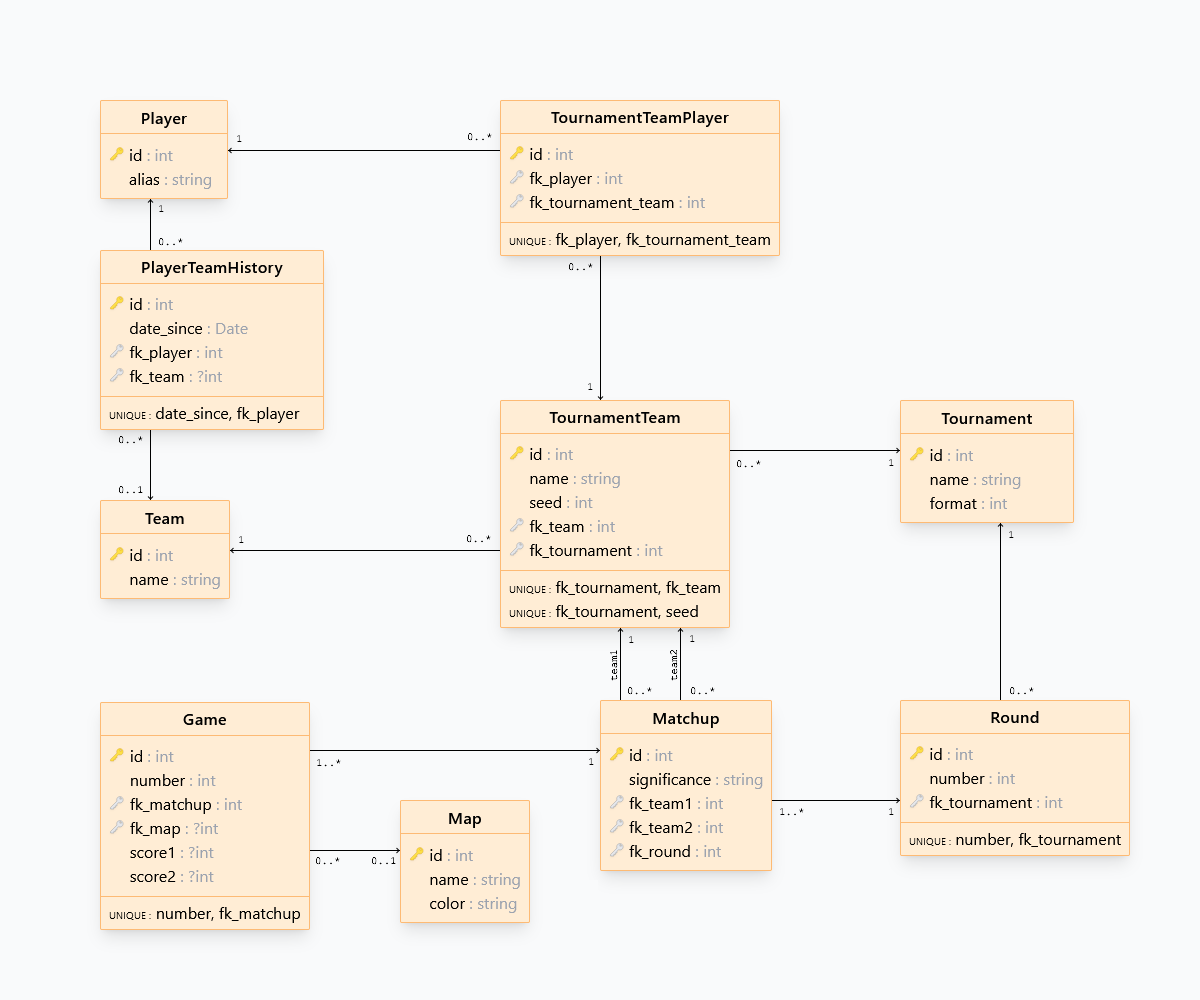
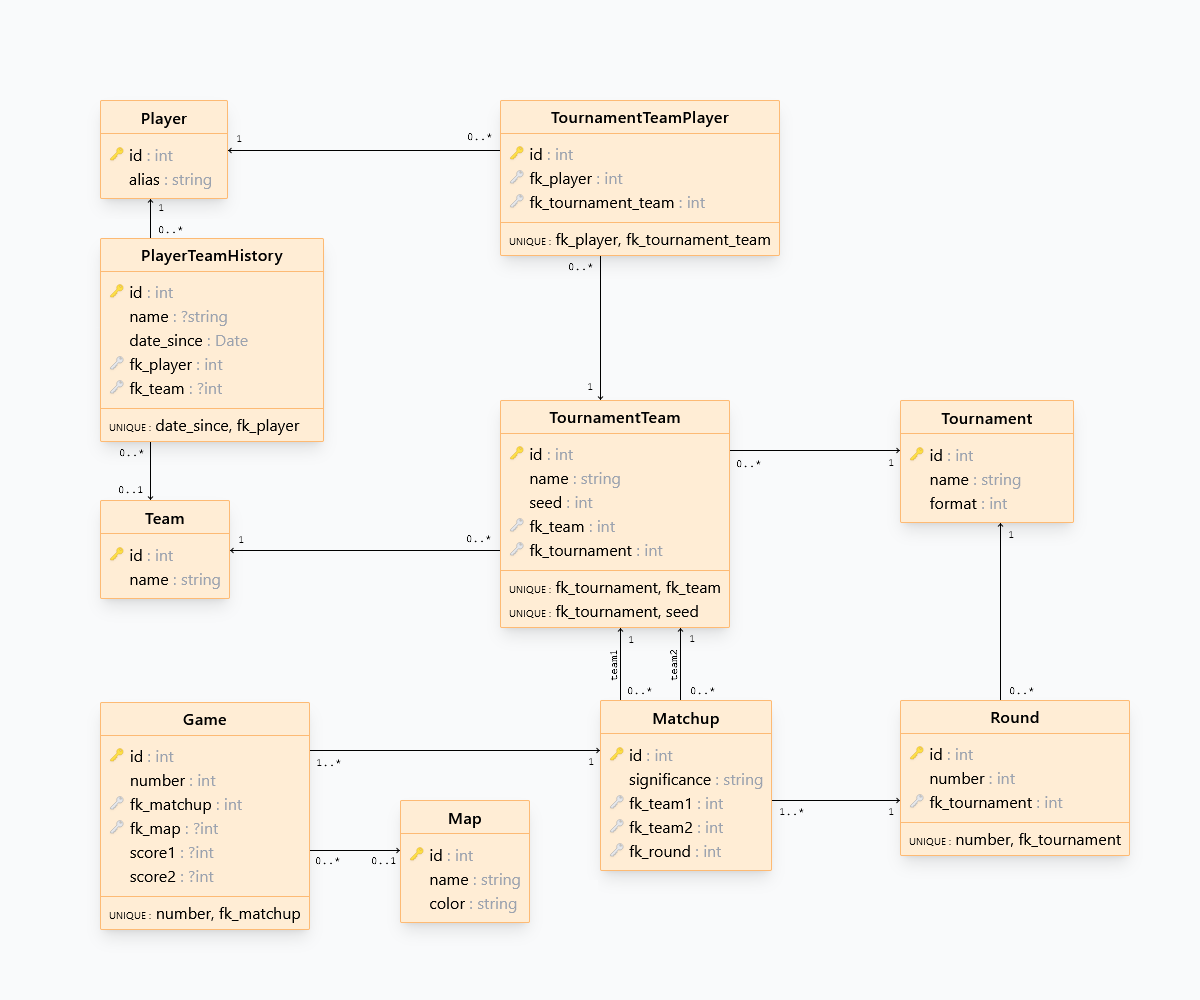
Add current team name to player team histroy

Changed region(s): [[0.0925, 0.217, 0.2775, 0.465]]

diff --git a/resources/js/pages/Player/Player.tsx b/resources/js/pages/Player/Player.tsx
@@ -66,9 +66,19 @@ function PlayerTransfer({ transfer, earlier }: {
 
 	return <ListItemLink to={'/Teams/' + transfer.team.id}>
 		<ListItemText>
-			<Typography component='span'>{transfer.date}:</Typography>{' '}
+			{transfer.date}:{' '}
 			<Typography component='span' color='textSecondary'>{earlier?.team == null ? 'Joined' : 'Transferred to'}</Typography>{' '}
-			<Typography component='span'>{transfer.team.name}</Typography>
+			{transfer.name !== transfer.team.name ?
+				<>
+					{transfer.name}{' '}
+					<Typography component='span' variant='body2' color='textSecondary'>(now known as
+						{' '}
+						<Typography component='span' variant='body2' color='textPrimary'>{transfer.team.name}</Typography>
+					)</Typography>
+				</>
+			:
+				<>{transfer.team.name}</>
+			}
 		</ListItemText>
 	</ListItemLink>
 }

diff --git a/resources/js/pages/Player/PlayerTypes.tsx b/resources/js/pages/Player/PlayerTypes.tsx
@@ -11,6 +11,7 @@ export type IPlayerPayload = Omit<IPlayerBasic, 'id'>
 
 export interface IPlayerTransfer {
 	date: string;
+	name: string|null;
 	team: {
 		id: string;
 		name: string;

diff --git a/app/Services/PlayerTeamHistoryService.php b/app/Services/PlayerTeamHistoryService.php
@@ -41,11 +41,11 @@ class PlayerTeamHistoryService
         return $players;
     }
 
-    public function changePlayerTeam(Player $player, ?int $teamId = null): void
+    public function changePlayerTeam(Player $player, ?Team $team): void
     {
         $latestPlayerHistory = $player->getLatestHistory();
 
-        if ($latestPlayerHistory == null && $teamId == null) return;
+        if ($latestPlayerHistory == null && $team == null) return;
 
         $today = date('Y-m-d');
         if ($latestPlayerHistory != null && $latestPlayerHistory->date_since === $today) {
@@ -53,12 +53,13 @@ class PlayerTeamHistoryService
             $latestPlayerHistory = $player->getLatestHistory();
         }
 
-        if ($latestPlayerHistory != null && $latestPlayerHistory->fk_team === $teamId) return;
+        if ($latestPlayerHistory != null && $latestPlayerHistory->fk_team === $team->id) return;
 
         PlayerTeamHistory::create([
             'fk_player' => $player->id,
             'date_since' => $today,
-            'fk_team' => $teamId,
+            'fk_team' => $team?->id,
+            'name' => $team?->name,
         ]);
     }
 
@@ -78,7 +79,7 @@ class PlayerTeamHistoryService
             $player = Player::findOrFail($playerId);
             // if ($player == null) continue;
             if (!$currentPlayers->contains($player)) {
-                $this->changePlayerTeam($player, $team->id);
+                $this->changePlayerTeam($player, $team);
             }
         }
     }

diff --git a/database/seeders/PlayerTeamHistorySeeder.php b/database/seeders/PlayerTeamHistorySeeder.php
@@ -28,21 +28,22 @@ class PlayerTeamHistorySeeder extends Seeder
             $previousTeamId = null;
 
             for ($i = 0; $i < $numberOfTransfers; $i++) {
-                $shouldTeamBeNotNull = $this->faker->boolean(75);
+                $isNextTeamNotNull = $this->faker->boolean(75);
                 $isPreviousTeamNull = $previousTeamId == null;
-                $teamId = ($isPreviousTeamNull || $shouldTeamBeNotNull) ? $teams->random()->id : null;
+                $team = ($isPreviousTeamNull || $isNextTeamNotNull) ? $teams->random() : null;
 
-                if ($teamId === $previousTeamId) $teamId = null; // rare, but not impossible
+                if ($team->id === $previousTeamId) $team = null; // rare, but not impossible
 
                 $daysAgo = 14 * ($numberOfTransfers - $i - 1) + $this->faker->numberBetween(0, 13);
                 $date = CarbonImmutable::now()->addDays(-$daysAgo)->format('Y-m-d');
 
                 PlayerTeamHistory::create([
                     'fk_player' => $player->id,
-                    'fk_team' => $teamId,
+                    'fk_team' => $team->id,
                     'date_since' => $date,
+                    'name' => $team->name,
                 ]);
-                $previousTeamId = $teamId;
+                $previousTeamId = $team->id;
             }
         }
     }

diff --git a/app/Services/PlayerService.php b/app/Services/PlayerService.php
@@ -6,6 +6,7 @@ use Illuminate\Support\Facades\DB;
 use Illuminate\Support\Facades\Validator;
 use App\Exceptions\InvalidStateException;
 use App\Models\Player;
+use App\Models\Team;
 
 class PlayerService
 {
@@ -29,7 +30,9 @@ class PlayerService
             'alias' => $validData['alias'],
         ]);
 
-        $this->historyService->changePlayerTeam($player, $validData['team'] ?? null);
+        $team = $validData['team'] === null ? null : Team::findOrFail($validData['team']);
+
+        $this->historyService->changePlayerTeam($player, $team);
     }
 
     /** @param array<string, mixed> $inputData */
@@ -46,7 +49,9 @@ class PlayerService
         $player->alias = $validData['alias'];
         $player->save();
 
-        $this->historyService->changePlayerTeam($player, $validData['team'] ?? null);
+        $team = $validData['team'] === null ? null : Team::findOrFail($validData['team']);
+
+        $this->historyService->changePlayerTeam($player, $team);
     }
 
     public function destroy(int $id): void

diff --git a/database/migrations/2023_12_15_182048_add_name_to_team_history_table.php b/database/migrations/2023_12_15_182048_add_name_to_team_history_table.php
@@ -1,0 +1,28 @@
+<?php
+
+use Illuminate\Support\Facades\Schema;
+use Illuminate\Database\Schema\Blueprint;
+use Illuminate\Database\Migrations\Migration;
+
+class AddNameToTeamHistoryTable extends Migration
+{
+    /**
+     * Run the migrations.
+     */
+    public function up(): void
+    {
+        Schema::table('player_team_history', function (Blueprint $table) {
+            $table->string('name')->nullable();
+        });
+    }
+
+    /**
+     * Reverse the migrations.
+     */
+    public function down(): void
+    {
+        Schema::table('player_team_history', function (Blueprint $table) {
+            $table->dropColumn('name');
+        });
+    }
+}

diff --git a/database/migrations/2023_12_15_182416_migrate_team_history_name.php b/database/migrations/2023_12_15_182416_migrate_team_history_name.php
@@ -1,0 +1,22 @@
+<?php
+
+use Illuminate\Database\Migrations\Migration;
+use Illuminate\Support\Facades\DB;
+
+class MigrateTeamHistoryName extends Migration
+{
+    /**
+     * Run the migrations.
+     */
+    public function up(): void
+    {
+        DB::update('update player_team_history inner join team on player_team_history.fk_team = team.id set player_team_history.name = team.name where player_team_history.fk_team is not null');
+    }
+
+    /**
+     * Reverse the migrations.
+     */
+    public function down(): void
+    {
+    }
+}

diff --git a/app/Http/Resources/PlayerResource.php b/app/Http/Resources/PlayerResource.php
@@ -21,6 +21,7 @@ final class PlayerResource
                 ],
                 'history' => $player->history->sortBy('date_since')->reverse()->map(fn (PlayerTeamHistory $entry) => [
                     'date' => $entry->date_since,
+                    'name' => $entry->team == null ? null : $entry->name,
                     'team' => $entry->team == null ? null : [
                         'id' => $entry->team->id,
                         'name' => $entry->team->name,

diff --git a/app/Models/PlayerTeamHistory.php b/app/Models/PlayerTeamHistory.php
@@ -7,6 +7,7 @@ use Illuminate\Database\Eloquent\Relations\BelongsTo;
 
 /**
  * @property int $id
+ * @property ?string $name
  * @property string $date_since
  * @property int $fk_player
  * @property ?int $fk_team
